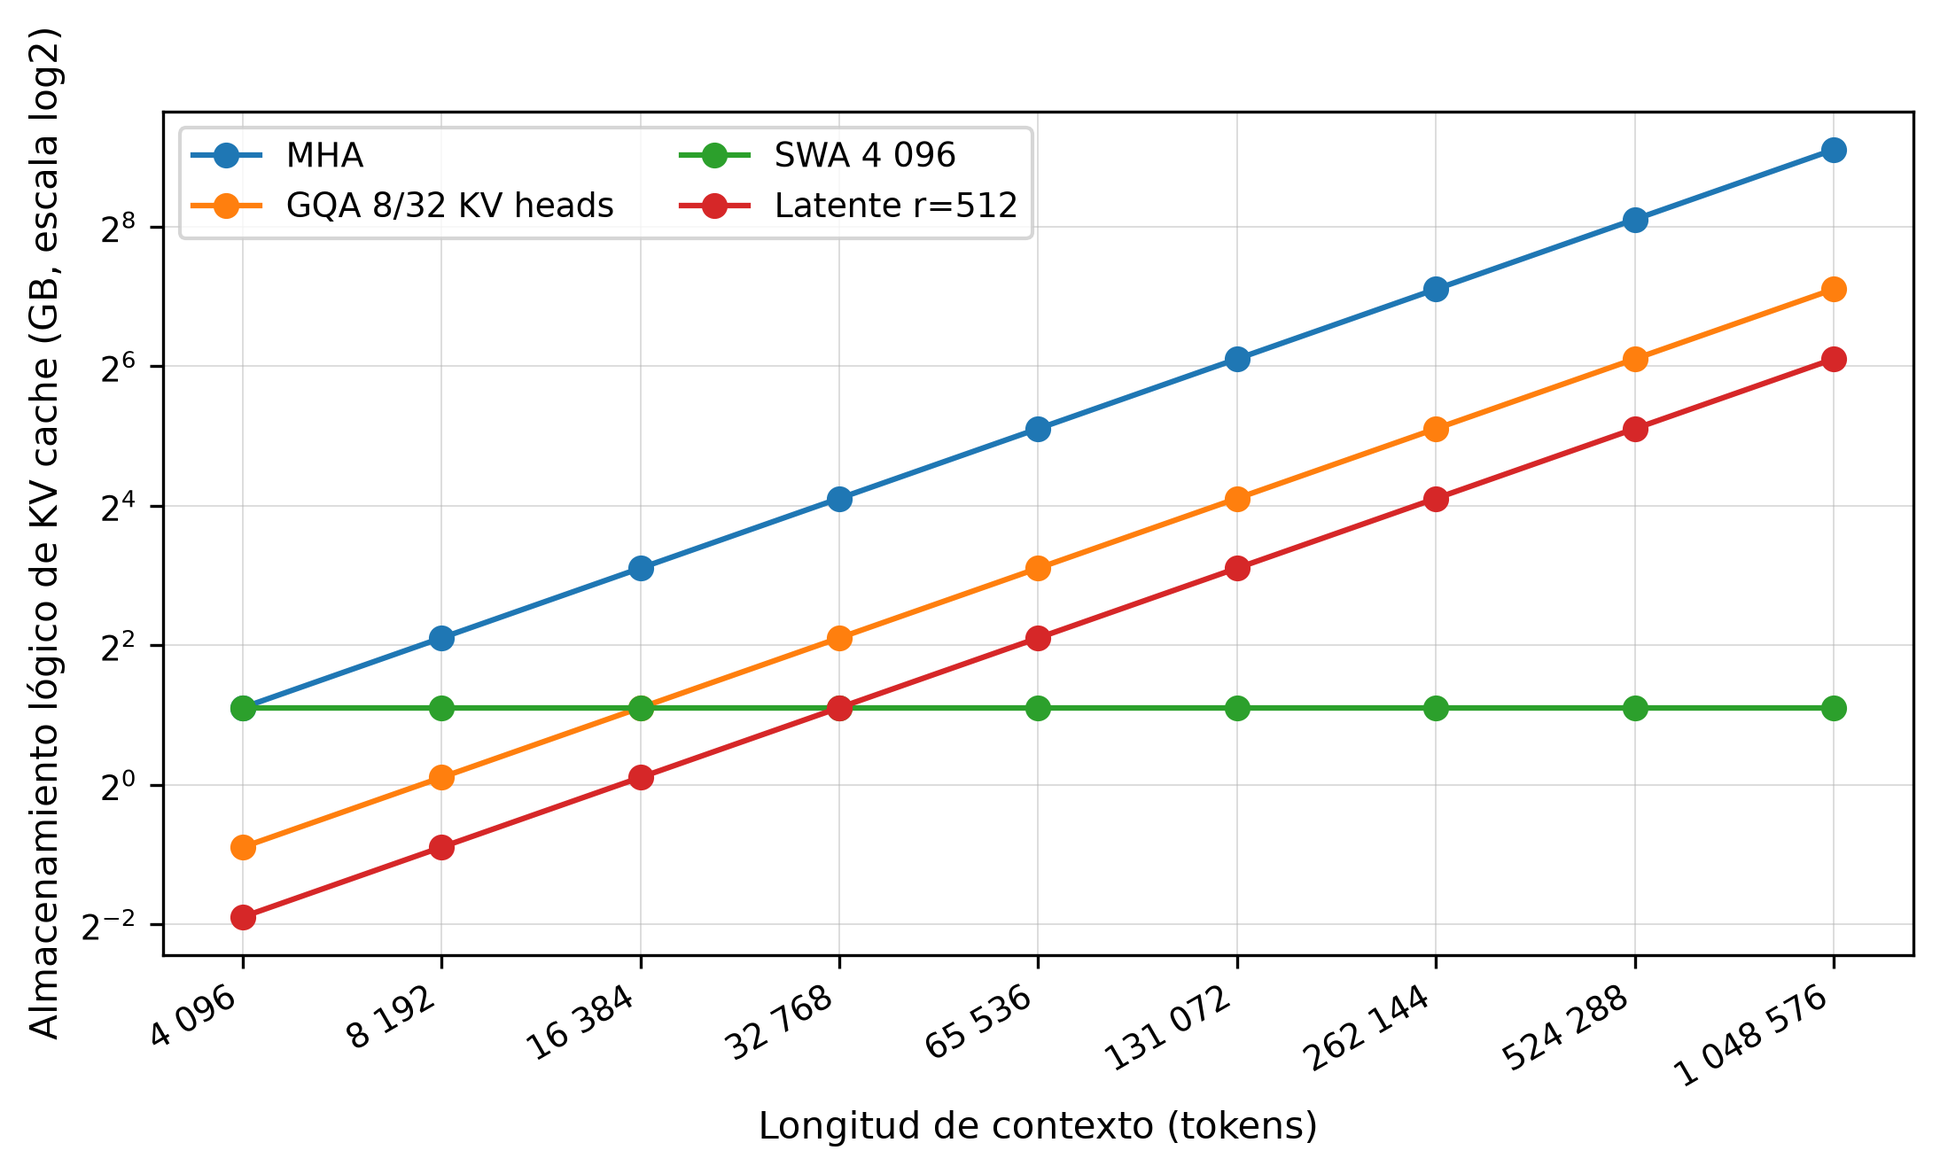
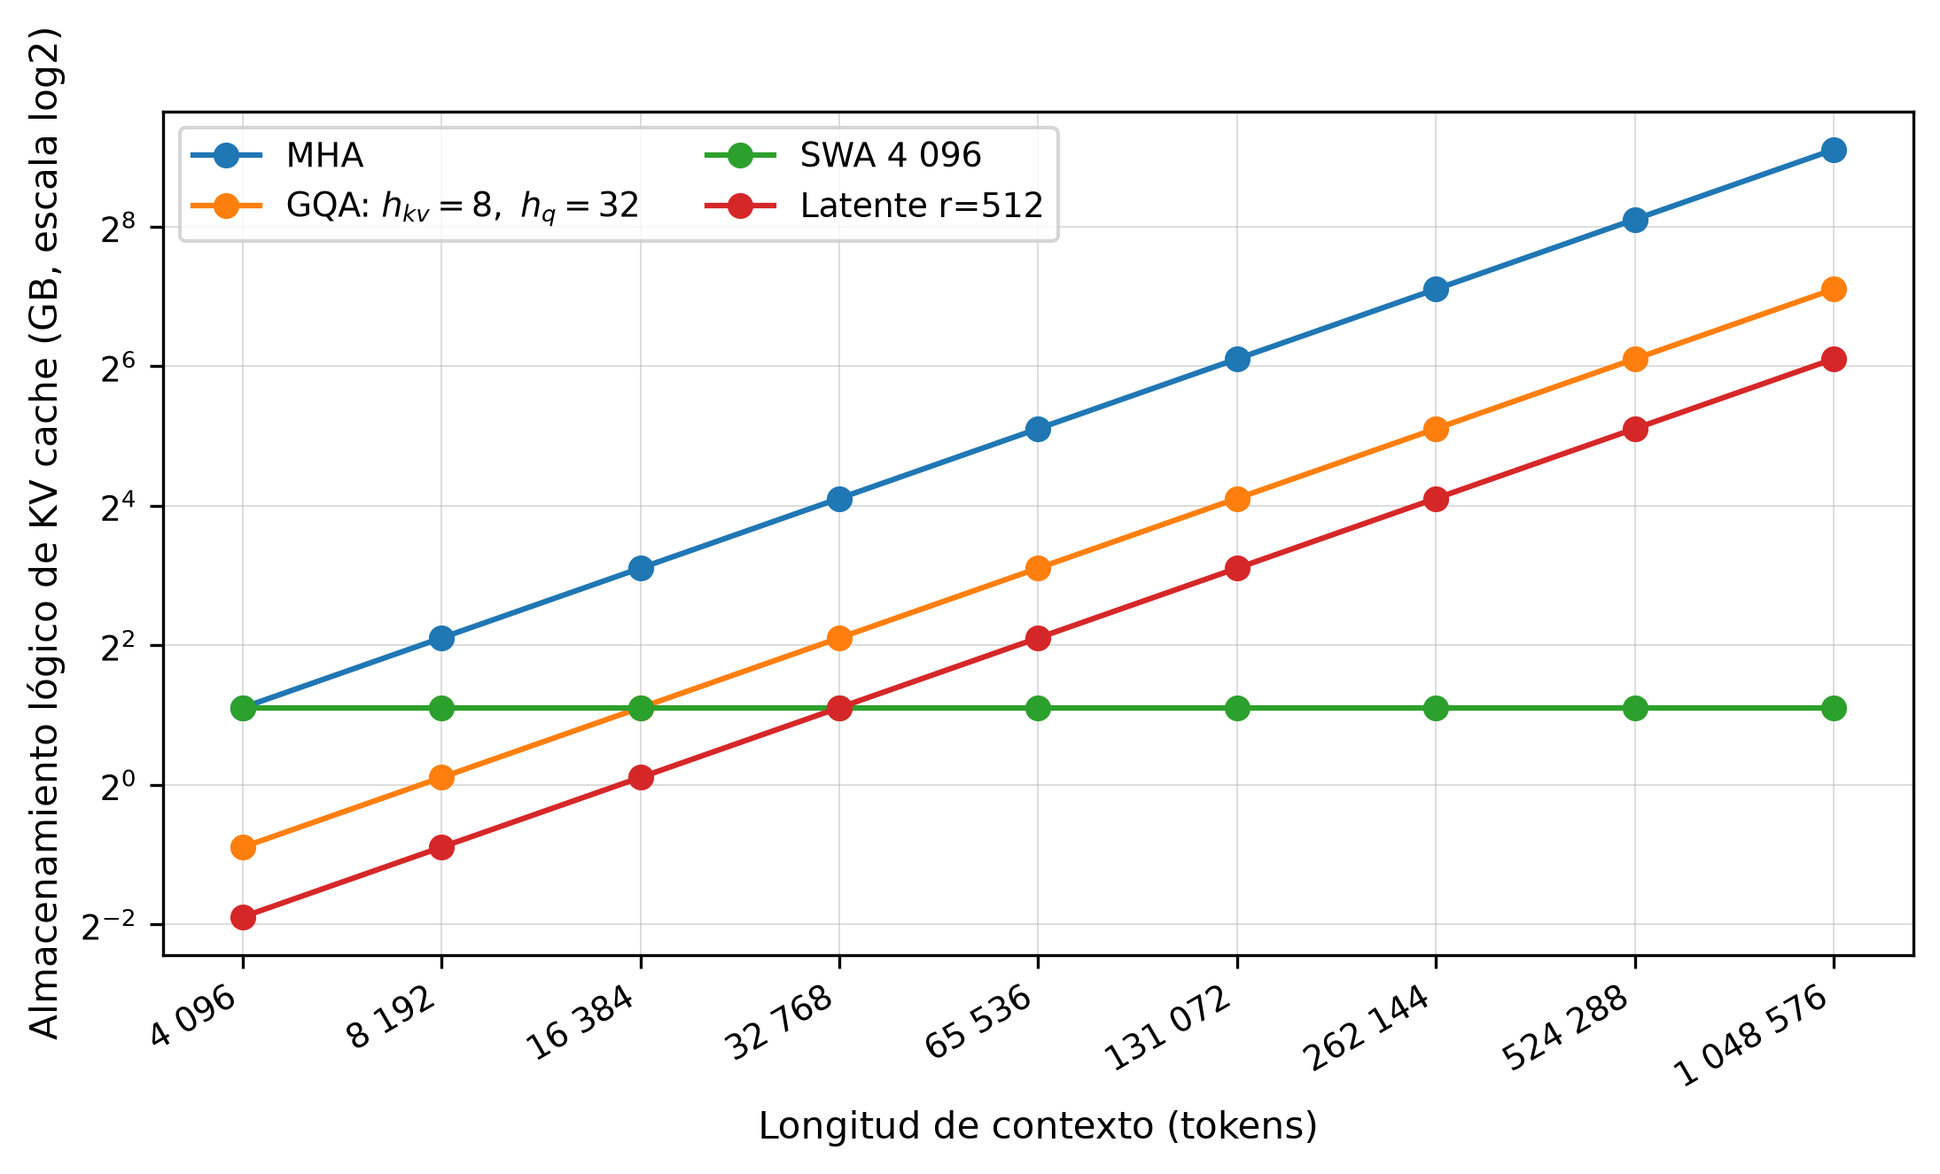
Corrige hallazgos documentales de auditoría W2

Changed region(s): [[0.0932, 0.0928, 0.5592, 0.2166]]

diff --git a/paper/lara_avila.tex b/paper/lara_avila.tex
@@ -25,14 +25,14 @@ A Reproducible and Auditable Analytical Framework for Sizing Logical KV-Cache St
 \begin{document}
 \twocolumn[\maketitle
 \begin{onecolabstract}
-La memoria de claves y valores (KV cache) es una restricción central en la inferencia autoregresiva de modelos de lenguaje con contexto largo. Este trabajo presenta un marco analítico reproducible y auditable para dimensionar el almacenamiento lógico de KV cache en atención multi-head (MHA), grouped-query attention (GQA), sliding-window attention (SWA) y una aproximación de cache latente inspirada en MLA. El marco integra una formulación común, factores adimensionales que pueden componerse bajo supuestos explícitos y una formulación inversa que calcula la longitud de contexto admisible bajo un presupuesto reservado al almacenamiento lógico de KV cache. Se evaluaron 71 configuraciones entre $4\,096$ y $1\,048\,576$ tokens y cinco invariantes automatizados. Para 32 capas, dimensión $4\,096$, FP16 y $1\,048\,576$ tokens, MHA requiere 549.756 GB; GQA con 8 de 32 KV heads, 137.439 GB; SWA con ventana $8\,192$, 4.295 GB; y la aproximación latente de rango 512, 68.719 GB. Con un presupuesto lógico de 24 GB, el contexto completo admisible pasa de $45\,776$ tokens en MHA a $183\,105$ en GQA-8 y $366\,210$ en la aproximación latente. Attention AI Lab vincula las ecuaciones con implementación, datos regenerables y pruebas automatizadas. Una comprobación empírica acotada en CPU mostró igualdad entre los bytes analíticos y el almacenamiento materializado por PyTorch en los escenarios evaluados. Los resultados cuantifican el almacenamiento lógico de KV cache y no la memoria pico de GPU ni las sobrecargas de un entorno de ejecución de inferencia.\\
+La memoria de claves y valores (KV cache) es una restricción central en la inferencia autorregresiva de modelos de lenguaje con contexto largo. Este trabajo presenta un marco analítico reproducible y auditable para dimensionar el almacenamiento lógico de KV cache en atención multi-head (MHA), grouped-query attention (GQA), sliding-window attention (SWA) y una aproximación de cache latente inspirada en MLA. El marco integra una formulación común, factores adimensionales que pueden componerse bajo supuestos explícitos y una formulación inversa que calcula la longitud de contexto admisible bajo un presupuesto reservado al almacenamiento lógico de KV cache. Se evaluaron 71 configuraciones entre $4\,096$ y $1\,048\,576$ tokens y cinco invariantes automatizados. Para 32 capas, dimensión $4\,096$, FP16 y $1\,048\,576$ tokens, MHA requiere 549.756 GB; GQA con 8 KV heads y 32 query heads, 137.439 GB; SWA con ventana $8\,192$, 4.295 GB; y la aproximación latente de rango 512, 68.719 GB. Con un presupuesto lógico de 24 GB, el contexto completo admisible pasa de $45\,776$ tokens en MHA a $183\,105$ en GQA-8 y $366\,210$ en la aproximación latente. Attention AI Lab vincula las ecuaciones con implementación, datos regenerables y pruebas automatizadas. Una comprobación empírica acotada en CPU mostró igualdad entre los bytes analíticos y el almacenamiento materializado por PyTorch en los escenarios evaluados. Los resultados cuantifican el almacenamiento lógico de KV cache y no la memoria pico de GPU ni las sobrecargas de un entorno de ejecución de inferencia.\\
 
 \noindent\textbf{Palabras clave}: KV cache, contexto largo, atención multi-head, GQA, SWA, dimensionamiento reproducible.
 \vspace{3ex}
 \end{onecolabstract}
 \renewcommand{\abstractname}{Abstract}
 \begin{onecolabstract}
-Key-value caching is a central constraint in autoregressive inference with long-context language models. This paper presents a reproducible and auditable analytical framework for sizing logical KV-cache storage under multi-head attention (MHA), grouped-query attention (GQA), sliding-window attention (SWA), and a latent-cache approximation inspired by MLA. The framework integrates a common formulation, dimensionless factors that can be composed under explicit assumptions, and an inverse formulation that computes admissible context length under a logical budget reserved for the KV-cache payload. We evaluated 71 configurations from $4\,096$ to $1\,048\,576$ tokens and five automated invariants. For 32 layers, dimension $4\,096$, FP16 precision, and a $1\,048\,576$-token context, MHA requires 549.756 GB; GQA with 8 of 32 KV heads requires 137.439 GB; SWA with an $8\,192$-token window requires 4.295 GB; and the rank-512 latent approximation requires 68.719 GB. Under a logical 24 GB budget, admissible full context grows from $45\,776$ tokens with MHA to $183\,105$ with GQA-8 and $366\,210$ with the latent approximation. Attention AI Lab links the equations to implementation, regenerable data, and automated tests. A bounded CPU check showed exact agreement between analytical bytes and materialized PyTorch storage for the evaluated scenarios. The reported values quantify logical KV-cache payload rather than peak GPU memory or inference-runtime overhead.\\
+Key-value caching is a central constraint in autoregressive inference with long-context language models. This paper presents a reproducible and auditable analytical framework for sizing logical KV-cache storage under multi-head attention (MHA), grouped-query attention (GQA), sliding-window attention (SWA), and a latent-cache approximation inspired by MLA. The framework integrates a common formulation, dimensionless factors that can be composed under explicit assumptions, and an inverse formulation that computes admissible context length under a logical budget reserved for the KV-cache payload. We evaluated 71 configurations from $4\,096$ to $1\,048\,576$ tokens and five automated invariants. For 32 layers, dimension $4\,096$, FP16 precision, and a $1\,048\,576$-token context, MHA requires 549.756 GB; GQA with 8 KV heads and 32 query heads requires 137.439 GB; SWA with an $8\,192$-token window requires 4.295 GB; and the rank-512 latent approximation requires 68.719 GB. Under a logical 24 GB budget, admissible full context grows from $45\,776$ tokens with MHA to $183\,105$ with GQA-8 and $366\,210$ with the latent approximation. Attention AI Lab links the equations to implementation, regenerable data, and automated tests. A bounded CPU check showed exact agreement between analytical bytes and materialized PyTorch storage for the evaluated scenarios. The reported values quantify logical KV-cache payload rather than peak GPU memory or inference-runtime overhead.\\
 
 \noindent\textbf{Keywords}: KV cache, long context, multi-head attention, grouped-query attention, sliding-window attention, reproducible sizing.
 \vspace{3ex}
@@ -40,7 +40,7 @@ Key-value caching is a central constraint in autoregressive inference with long-
 ]
 
 \section{Introducción}
-Los modelos Transformer establecieron la atención multi-head como componente central de los modelos de lenguaje modernos \cite{vaswani2017attention}. Durante la generación autoregresiva, las claves y valores asociados con los tokens ya procesados se almacenan para evitar recomputación. Esta KV cache reduce cálculo redundante, pero su almacenamiento lógico crece con la longitud de contexto, el número de capas, el lote, la dimensión almacenada y la precisión numérica \cite{shazeer2019fast,pope2022efficiently}. En contextos extensos, este estado puede convertirse en una restricción de capacidad antes de considerar latencia o throughput.
+Los modelos Transformer establecieron la atención multi-head como componente central de los modelos de lenguaje modernos \cite{vaswani2017attention}. Durante la generación autorregresiva, las claves y valores asociados con los tokens ya procesados se almacenan para evitar recomputación. Esta KV cache reduce cálculo redundante, pero su almacenamiento lógico crece con la longitud de contexto, el número de capas, el lote, la dimensión almacenada y la precisión numérica \cite{shazeer2019fast,pope2022efficiently}. En contextos extensos, este estado puede convertirse en una restricción de capacidad antes de considerar latencia o throughput.
 
 Las optimizaciones recientes actúan sobre distintos niveles del problema, desde cambios arquitectónicos y cuantización hasta desalojo, paginación, transferencia entre niveles de memoria y planificación. El presente trabajo se concentra en una etapa previa a esas optimizaciones de ejecución: el dimensionamiento reproducible del almacenamiento lógico de KV cache. El objetivo no es predecir memoria GPU ni rendimiento de extremo a extremo, sino disponer de una representación compacta que permita comparar configuraciones bajo supuestos explícitos y vincular los cálculos con artefactos reproducibles.
 
@@ -60,7 +60,7 @@ Las contribuciones del trabajo son cuatro. Primero, se define un modelo compacto
 
 \section{Materiales y métodos}
 \subsection{Modelo analítico base}
-Para un decodificador autoregresivo con $L$ capas, contexto efectivo $T_{\mathrm{eff}}$, lote $B$, dimensión cacheada por token $d_{\mathrm{cache}}$ y $s$ bytes por valor, la memoria decimal estimada es:
+Para un decodificador autorregresivo con $L$ capas, contexto efectivo $T_{\mathrm{eff}}$, lote $B$, dimensión cacheada por token $d_{\mathrm{cache}}$ y $s$ bytes por valor, el almacenamiento lógico estimado, expresado en GB decimales, es:
 \begin{equation}\label{eq:base}
 M_{\mathrm{KV}}=\frac{L\,T_{\mathrm{eff}}\,2\,d_{\mathrm{cache}}\,s\,B}{10^{9}}\quad [\mathrm{GB}].
 \end{equation}
@@ -78,14 +78,14 @@ Sea $h_q$ el número de query heads y $h_{kv}$ el número de KV heads. Bajo dime
 M_{\mathrm{GQA}}=M_{\mathrm{MHA}}\frac{h_{kv}}{h_q},\qquad
 R_{\mathrm{GQA}}=\frac{h_{kv}}{h_q}.
 \end{equation}
-La Ecuación~\eqref{eq:gqa} expresa la reducción proporcional producida al compartir claves y valores entre grupos de query heads.
+La Ecuación~\eqref{eq:gqa} expresa la reducción proporcional producida al compartir claves y valores entre grupos de query heads. Las comparaciones científicas de este estudio emplean configuraciones con $1\leq h_{kv}\leq h_q$. La normalización heredada del API para entradas fuera de este dominio no forma parte de los escenarios evaluados.
 
 En SWA, el contexto activo se limita a una ventana $W$ \cite{jiang2023mistral}:
 \begin{equation}\label{eq:swa}
 M_{\mathrm{SWA}}=\frac{L\,\min(T,W)\,2\,d\,s\,B}{10^{9}},\qquad
 R_{\mathrm{SWA}}=\frac{\min(T,W)}{T}.
 \end{equation}
-La Ecuación~\eqref{eq:swa} cuantifica la memoria cuando el contexto efectivo se limita a una ventana local. Este caso representa una ventana fija y no modela políticas adaptativas, attention sinks ni caches heterogéneas por head. Diseños con tokens globales, estados retenidos selectivamente o mecanismos híbridos requieren términos complementarios.
+La Ecuación~\eqref{eq:swa} cuantifica el almacenamiento lógico cuando el contexto efectivo se limita a una ventana local. Este caso representa una ventana fija y no modela políticas adaptativas, attention sinks ni caches heterogéneas por head. Diseños con tokens globales, estados retenidos selectivamente o mecanismos híbridos requieren términos complementarios.
 
 Para una aproximación abstracta de cache latente que almacena, por token y por capa, dos representaciones de dimensión $r<d$, una asociada a claves y otra a valores:
 \begin{equation}\label{eq:latent}
@@ -118,7 +118,7 @@ El escenario base usa 32 capas, dimensión $4\,096$, 32 query heads, lote 1 y FP
 El conjunto incluye 71 estimaciones: 36 para contexto, 15 para parámetros arquitectónicos y 20 para precisión. INT8 e INT4 representan almacenamiento ideal con 1 y 0.5 bytes por valor. No modelan granularidad por grupo o canal, escalas, puntos cero, regiones residuales en mayor precisión, protección de valores atípicos o attention sinks, metadatos, precisión mixta ni kernels de cuantización y descuantización \cite{liu2024kivi,duanmu2024skvq}.
 
 \subsection{Métricas y criterios de verificación}
-Se reportan memoria en GB decimales, razón $R=M/M_{\mathrm{MHA}}$, reducción $100(1-R)$ y $T_{\max}$ bajo presupuestos de 24, 48 y 80 GB. La implementación se verifica con cinco invariantes: linealidad de MHA respecto a $T$; razón GQA igual a $h_{kv}/h_q$; saturación SWA para $T\ge W$; razón latente igual a $r/d$; y consumo INT8 igual a la mitad de FP16 bajo parámetros idénticos.
+Se reporta el almacenamiento lógico en GB decimales, razón $R=M/M_{\mathrm{MHA}}$, reducción $100(1-R)$ y $T_{\max}$ bajo presupuestos de 24, 48 y 80 GB. La implementación se verifica con cinco invariantes: linealidad de MHA respecto a $T$; razón GQA igual a $h_{kv}/h_q$; saturación SWA para $T\ge W$; razón latente igual a $r/d$; y consumo INT8 igual a la mitad de FP16 bajo parámetros idénticos.
 
 \subsection{Comprobación empírica del almacenamiento de tensores en CPU}
 Como comprobación empírica acotada de la contabilidad elemental, se materializaron tensores FP16 en CPU con PyTorch 2.10.0 usando la forma $[L,2,B,T,d_{\mathrm{cache}}]$. Cada escenario se ejecutó tres veces en un subproceso nuevo. Después de importar PyTorch, se escribió el tensor completo para comprometer sus páginas y se compararon la Ecuación~\eqref{eq:base}, los bytes de \texttt{untyped\_storage().nbytes()} y la mediana del incremento de memoria residente (RSS). Se usaron dos configuraciones reducidas: MHA con $L=4$, $T=8\,192$ y $d_{\mathrm{cache}}=1\,024$; y GQA-4/16 con $d_{\mathrm{cache}}=256$. Los bytes reportados por \texttt{untyped\_storage().nbytes()} permiten comprobar la contabilidad del tensor materializado, mientras que RSS depende del proceso, asignador de memoria y sistema operativo. Esta comprobación no incluye pesos, kernels de atención, buffers de ejecución ni memoria CUDA, por lo que no calibra memoria física de inferencia ni constituye una evaluación de rendimiento en GPU.
@@ -202,8 +202,7 @@ desarrolló la formulación, el código del proyecto, los escenarios, las prueba
 automatizadas y la interpretación científica. Las herramientas de IA se utilizaron como apoyo para la búsqueda y la organización bibliográfica,
 así como para la revisión lingüística, terminológica y de coherencia del
 manuscrito. Las sugerencias de estas herramientas fueron revisadas antes de su
-incorporación. Los valores numéricos reportados se generan exclusivamente
-mediante los scripts deterministas y versionados del repositorio.
+incorporación. Las estimaciones analíticas reportadas se generan mediante scripts deterministas y versionados del repositorio. Las mediciones de RSS corresponden al perfil histórico en CPU y dependen del entorno de ejecución.
 
 \begin{figure*}[!t]
 \centering
@@ -224,20 +223,20 @@ La Figura~\ref{fig:context} muestra el barrido de $4\,096$ a $1\,048\,576$ token
 \begin{figure*}[!ht]
 \centering
 \includegraphics[width=0.84\linewidth]{figures/context_sweep.png}
-\caption{Almacenamiento lógico estimado de KV cache al variar la longitud de contexto. Supuestos: 32 capas, dimensión $4\,096$, FP16, lote 1, GQA con 8 de 32 KV heads, SWA con ventana $4\,096$ y cache latente de rango 512. Fuente: elaboración propia.}\label{fig:context}
+\caption{Almacenamiento lógico estimado de KV cache al variar la longitud de contexto. Supuestos: 32 capas, dimensión $4\,096$, FP16, lote 1, GQA con 8 KV heads y 32 query heads, SWA con ventana $4\,096$ y cache latente de rango 512. Fuente: elaboración propia.}\label{fig:context}
 \end{figure*}
 
 La Tabla~\ref{tab:scenarios} separa las cuatro familias para evitar interpretar SWA y cache latente como una misma salida. En $1\,048\,576$ tokens, MHA requiere 549.756 GB. GQA-8 reduce 75\%, la cache latente de rango 512 reduce 87.5\% y SWA-$8\,192$ reduce 99.219\% respecto al MHA de referencia. Esta última reducción se obtiene al renunciar a atención directa sobre tokens fuera de la ventana local.
 
 \begin{table*}[!ht]
 \centering\small
-\caption{Escenarios representativos de almacenamiento lógico estimado. Valores en GB decimales. Fuente: elaboración propia.}\label{tab:scenarios}
+\caption{Escenarios representativos de almacenamiento lógico estimado. Supuestos comunes: 32 capas, dimensión $4\,096$, FP16 y lote 1. Salvo indicación contraria, GQA utiliza 8 KV heads y 32 query heads, SWA utiliza $W=4\,096$ y el proxy latente utiliza $r=512$. La primera fila utiliza 32 KV heads y la última $W=8\,192$. Valores en GB decimales. Fuente: elaboración propia.}\label{tab:scenarios}
 \begin{tabular}{lrrrrr}
 \toprule
 Escenario & Contexto & MHA & GQA & SWA & Latente \\
 \midrule
 MHA $32\,768$, 32 KV heads & $32\,768$ & 17.180 & 17.180 & 2.147 & 2.147 \\
-GQA $65\,536$, 8 de 32 KV heads & $65\,536$ & 34.360 & 8.590 & 2.147 & 4.295 \\
+GQA $65\,536$, 8 KV heads y 32 query heads & $65\,536$ & 34.360 & 8.590 & 2.147 & 4.295 \\
 SWA $131\,072$, ventana $4\,096$ & $131\,072$ & 68.719 & 17.180 & 2.147 & 8.590 \\
 Contexto $1\,048\,576$, ventana $8\,192$, rango 512 & $1\,048\,576$ & 549.756 & 137.439 & 4.295 & 68.719 \\
 \bottomrule
@@ -286,7 +285,7 @@ Presupuesto KV & MHA & GQA-8 & Latente $r=512$ \\
 \end{table}
 
 \subsection{Verificación por invariantes}
-La Tabla~\ref{tab:invariants} resume las pruebas. El error absoluto es cero dentro de la aritmética del script. Estas pruebas verifican la coherencia entre ecuaciones y código, no correspondencia con hardware.
+La Tabla~\ref{tab:invariants} presenta comprobaciones numéricas representativas de las relaciones analíticas. El error absoluto es cero dentro de la aritmética del script para estas comprobaciones. La fila SWA muestra la razón respecto a MHA para una configuración puntual, mientras que la saturación para $T\geq W$ se comprueba adicionalmente mediante las pruebas de propiedades del repositorio. Estas verificaciones comprueban coherencia entre ecuaciones y código, no correspondencia con hardware ni verificación exhaustiva de todo el dominio.
 
 \begin{table}[!ht]
 \centering\small

diff --git a/paper/generate_results.py b/paper/generate_results.py
@@ -21,7 +21,7 @@ BYTES = {"fp32": 4.0, "fp16": 2.0, "bf16": 2.0, "int8": 1.0, "int4": 0.5}
 
 DISPLAY_NAMES = {
     "MHA": "MHA",
-    "GQA-8 heads KV": "GQA 8/32 KV heads",
+    "GQA-8 heads KV": r"GQA: $h_{kv}=8,\ h_q=32$",
     "SWA-4 096": "SWA 4 096",
     "Latente r=512": "Latente r=512",
 }
@@ -100,7 +100,7 @@ with (DATA / "sensitivity_128k.csv").open("w", newline="", encoding="utf-8") as 
         writer.writerow({"family": "Latent", "parameter": "rank", "value": rank, "memory_gb": round(value, 6), "ratio_to_mha": round(value / baseline, 6)})
 
 plt.figure(figsize=(7.4, 4.2))
-labels = [f"GQA {heads}/32" for heads in [16, 8, 4, 1]] + [f"SWA {window:,}".replace(",", " ") for window in windows] + [f"Lat. r={rank}" for rank in ranks]
+labels = [rf"GQA: $h_{{kv}}={heads},\ h_q=32$" for heads in [16, 8, 4, 1]] + [f"SWA {window:,}".replace(",", " ") for window in windows] + [f"Lat. r={rank}" for rank in ranks]
 values = [gqa(T, heads) / mha(T) for heads in [16, 8, 4, 1]] + [swa(T, window) / mha(T) for window in windows] + [latent(T, rank) / mha(T) for rank in ranks]
 positions = range(len(labels))
 plt.barh(positions, values)

diff --git a/paper/README_REPRODUCIBILIDAD.md b/paper/README_REPRODUCIBILIDAD.md
@@ -48,8 +48,12 @@ CSV. Esta es la cadena canónica para el barrido experimental reproducible.
 
 #### Generar datos y figuras editoriales
 
+Desde la raíz del repositorio:
+
 ```bash
-python generate_results.py
+cd paper
+PYTHONDONTWRITEBYTECODE=1 python generate_results.py
+cd ..
 ```
 
 El comando produce:
@@ -68,11 +72,15 @@ figures/precision_128k.png
 
 #### Compilar el manuscrito
 
+Desde la raíz del repositorio:
+
 ```bash
+cd paper
 pdflatex -interaction=nonstopmode -halt-on-error lara_avila.tex
 bibtex lara_avila
 pdflatex -interaction=nonstopmode -halt-on-error lara_avila.tex
 pdflatex -interaction=nonstopmode -halt-on-error lara_avila.tex
+cd ..
 ```
 
 #### Alcance
@@ -90,7 +98,8 @@ artefacto final.
 
 #### Comprobación empírica de storage con PyTorch
 
-La revisión conserva un perfil histórico acotado de tensores en CPU:
+La revisión conserva un perfil histórico acotado de tensores en CPU.
+Este comando se ejecuta desde la raíz del repositorio:
 
 ```bash
 python profile_pytorch_memory.py --repetitions 3 \
